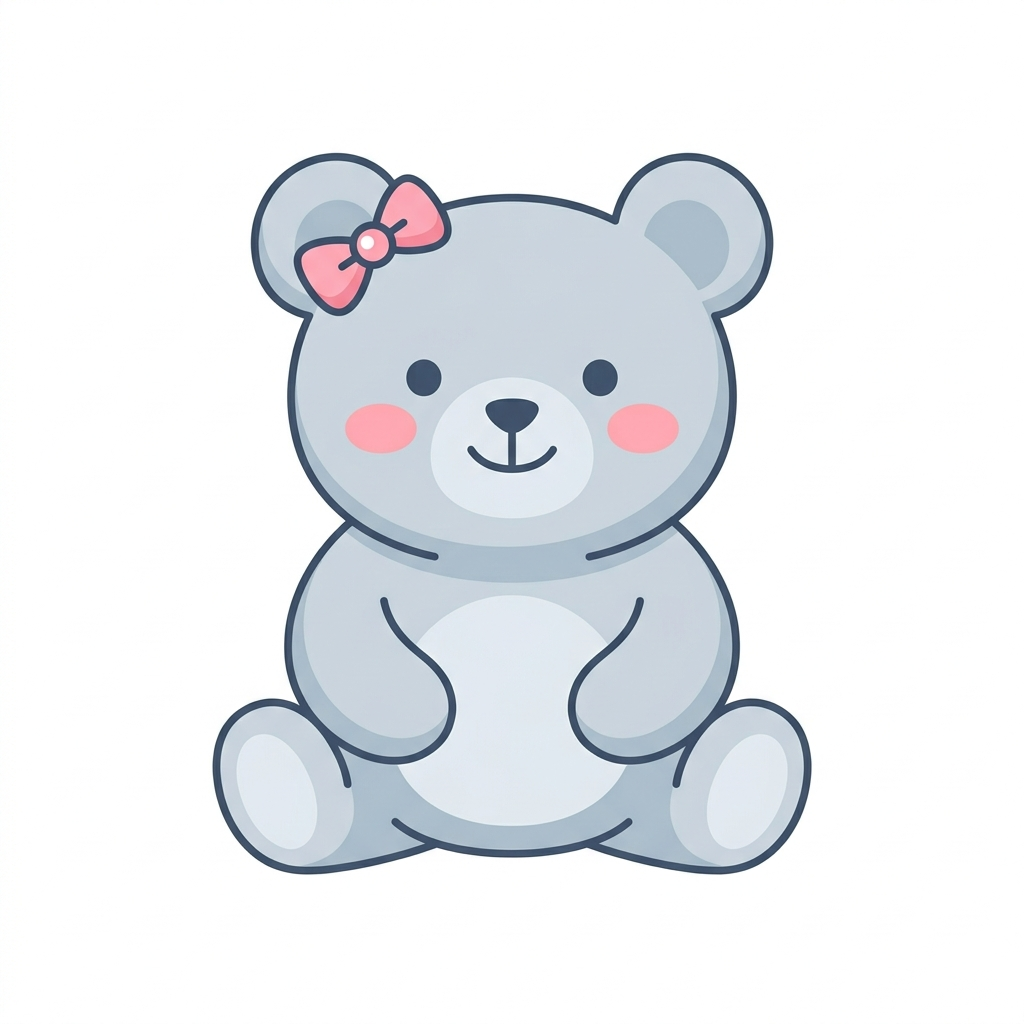
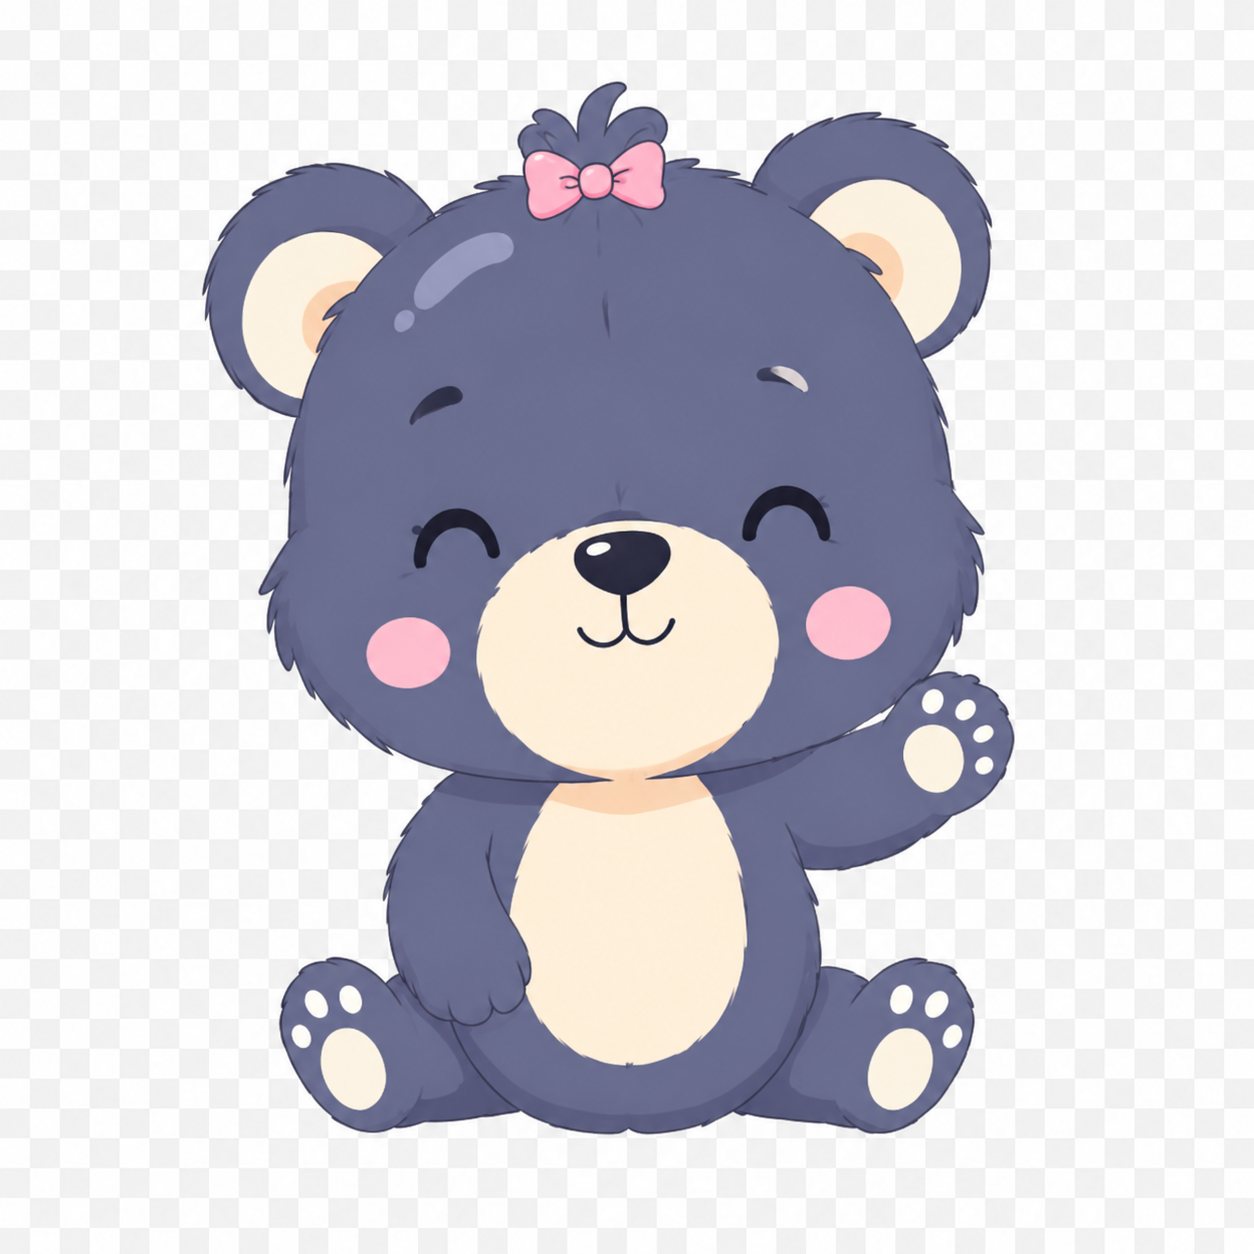
Update mobile layout to exactly match reference image

diff --git a/birthday.js b/birthday.js
@@ -1,77 +1,65 @@
 /* birthday.js */
 document.addEventListener('DOMContentLoaded', () => {
-  // Sequence:
-  // 1. Background already visible
-  // 2. Garlands drop (CSS animation starts automatically at 0.5s delay)
-  // 3. Text appears word by word/letter by letter
-  // 4. Cap falls
-  // 5. Teddy bear + balloons + name plate appear
-  // 6. Next button appears
-
-  const happySpans = document.querySelectorAll('.happy-text span');
-  const birthdaySpans = document.querySelectorAll('.birthday-text span');
+  const letters = document.querySelectorAll('.happy-text span, .birthday-text span');
   const datePill = document.querySelector('.date-pill');
+  const balloons = document.querySelectorAll('.balloon');
   const cap = document.querySelector('.birthday-cap');
   const frame = document.querySelector('.frame');
   const namePlate = document.querySelector('.name-plate');
   const nextBtn = document.querySelector('.btn-next');
 
-  // Initial delay waits for the garlands to finish dropping (1.5s total)
-  let delay = 1500; 
+  // Animation Timeline
+  // 1. Background is visible
+  // 2. Garlands drop immediately via CSS animation with 0.5s delay
+  
+  let delay = 1500; // Wait for garlands
 
-  // 3. Animate Text (letter by letter)
-  const animateText = (spans, startTime) => {
-    spans.forEach((span, i) => {
-      setTimeout(() => {
-        span.style.transition = 'opacity 0.4s, transform 0.4s cubic-bezier(0.175, 0.885, 0.32, 1.275)';
-        span.style.opacity = '1';
-        span.style.transform = 'translateY(0) scale(1)';
-      }, startTime + (i * 100));
-    });
-    return startTime + (spans.length * 100);
-  };
+  // 3. Text appears letter by letter
+  letters.forEach((letter, i) => {
+    setTimeout(() => {
+      letter.style.opacity = '1';
+      letter.style.transform = 'translateY(0) scale(1)';
+      letter.style.transition = 'all 0.4s cubic-bezier(0.175, 0.885, 0.32, 1.275)';
+    }, delay + (i * 100));
+  });
+  
+  delay += letters.length * 100 + 400;
 
-  delay = animateText(happySpans, delay);
-  delay += 200; // gap between words
-  delay = animateText(birthdaySpans, delay);
-
-  // Date pill appears alongside the text completion
-  setTimeout(() => {
-    datePill.style.transition = 'opacity 0.5s, transform 0.5s cubic-bezier(0.175, 0.885, 0.32, 1.275)';
-    datePill.style.opacity = '1';
-    datePill.style.transform = 'translateY(0)';
-  }, delay);
-
-  // 4. Birthday cap falls
-  delay += 400;
+  // 4. Cap falls
   setTimeout(() => {
     cap.style.animation = 'dropCap 0.8s forwards cubic-bezier(0.5, 0, 0.3, 1.5)';
   }, delay);
 
-  // 5. Bear and frame appears (pop in)
-  delay += 600;
+  delay += 800;
+
+  // 5. Bear and frame appears
   setTimeout(() => {
     frame.style.animation = 'popIn 0.8s forwards cubic-bezier(0.175, 0.885, 0.32, 1.275)';
-    
-    // Show balloons smoothly upwards
-    const balloons = document.querySelectorAll('.balloon');
-    balloons.forEach(b => b.classList.add('show'));
-    
-    // Name plate pops in shortly after the bear frame
-    setTimeout(() => {
-      namePlate.style.transition = 'opacity 0.5s, transform 0.5s cubic-bezier(0.175, 0.885, 0.32, 1.275)';
-      namePlate.style.opacity = '1';
-      namePlate.style.transform = 'translateY(0)';
-    }, 400);
   }, delay);
 
-  // 6. Next button
-  delay += 1200;
+  // 6. Balloons rise up together with the bear
+  setTimeout(() => {
+    balloons.forEach(b => b.classList.add('show'));
+  }, delay + 200);
+
+  delay += 1000;
+
+  // 7. Date, name plate, Next button appear smoothly
+  setTimeout(() => {
+    datePill.style.transition = 'all 0.5s cubic-bezier(0.175, 0.885, 0.32, 1.275)';
+    datePill.style.opacity = '1';
+    datePill.style.transform = 'translateY(0)';
+    
+    namePlate.style.transition = 'all 0.5s cubic-bezier(0.175, 0.885, 0.32, 1.275)';
+    namePlate.style.opacity = '1';
+    namePlate.style.transform = 'translateY(0)';
+  }, delay);
+
   setTimeout(() => {
     nextBtn.classList.add('visible');
-  }, delay);
+  }, delay + 500);
 
-  // Next button click (Placeholder until next instruction)
+  // Next button click
   nextBtn.addEventListener('click', () => {
     console.log("Next clicked! Ready for the next instruction.");
   });

diff --git a/birthday.css b/birthday.css
@@ -64,11 +64,12 @@ body, html {
 @media (orientation: portrait), (max-width: 768px) {
   #stage {
     flex-direction: column;
-    justify-content: flex-start;
+    justify-content: center;
+    align-items: center;
     height: 100vh;
     max-height: none;
     max-width: 100vw;
-    padding: 12vh 0 10vh 0;
+    padding: 8vh 0 8vh 0;
   }
 
   .left-section, .right-section {
@@ -77,58 +78,106 @@ body, html {
 
   .text-container {
     order: 1;
-    margin-bottom: 5vh;
-  }
-
-  .frame {
-    order: 2;
-    width: clamp(160px, 45vw, 280px);
-    margin-bottom: 4vh;
+    margin-bottom: 2vh;
+    margin-top: 4vh;
   }
 
   .date-pill {
+    order: 2;
+    margin-bottom: 3vh;
+  }
+
+  .frame {
     order: 3;
-    margin-bottom: 2vh;
+    width: clamp(220px, 60vw, 320px);
+    margin-bottom: 3vh;
   }
 
   .name-plate {
     order: 4;
+    margin-bottom: 3vh;
     margin-top: 0;
+  }
+
+  /* Next Button for Mobile */
+  .btn-next {
+    position: relative;
+    order: 5;
+    bottom: auto;
+    left: auto;
+    transform: translateY(20px);
+    width: clamp(160px, 50vw, 250px);
+    background: #3e3355;
+    color: #fff;
+    border-radius: 40px;
+    box-shadow: 0 4px 0 #333;
+    /* Simulated dashed inner border */
+    outline: 2px dashed #ffa7c4;
+    outline-offset: -8px;
+  }
+  .btn-next.visible {
+    animation: slideUpBtnMobile 0.5s forwards cubic-bezier(0.175, 0.885, 0.32, 1.275);
+  }
+  .btn-next:hover {
+    background: #51446b;
+    color: #fff;
   }
 
   .garland {
     width: 45%;
   }
 
+  /* 3 Balloons positioning */
   .balloon-1 {
-    top: 38vh;
-    left: 8vw;
+    top: 40vh;
+    left: 4vw;
     width: clamp(70px, 20vw, 120px);
   }
 
   .balloon-2 {
-    top: 44vh;
-    right: 8vw;
-    width: clamp(70px, 20vw, 120px);
+    top: 36vh;
+    right: 4vw;
+    width: clamp(70px, 18vw, 110px);
+  }
+  
+  .balloon-3 {
+    top: 52vh;
+    right: 6vw;
+    width: clamp(60px, 16vw, 100px);
+  }
+  .balloon-3.show {
+    animation: floatBalloon 4.5s infinite ease-in-out 1.2s;
   }
 
+  /* Fonts */
   .happy-text {
     font-size: clamp(2.5rem, 12vw, 4rem);
   }
-
   .birthday-text {
     font-size: clamp(3rem, 14vw, 5rem);
   }
 
   .birthday-cap {
     width: clamp(60px, 18vw, 90px);
-    top: -25%;
+    top: -20%;
     right: 0%;
   }
 
-  .btn-next {
-    bottom: 4vh;
+  /* Bear accessories */
+  .smiley-face {
+    width: clamp(50px, 18vw, 80px);
+    bottom: -2%;
+    left: -8%;
   }
+  .heart-bubble {
+    width: clamp(60px, 20vw, 90px);
+    top: 25%;
+    right: -12%;
+  }
+}
+
+@keyframes slideUpBtnMobile {
+  to { opacity: 1; transform: translateY(0); }
 }
 
 /* --- BIRTHDAY SCENE --- */

diff --git a/birthday.html b/birthday.html
@@ -104,6 +104,14 @@
             <path d="M35 30 C 40 20, 55 25, 55 25" fill="none" stroke="#fff" stroke-width="4" stroke-linecap="round"/>
           </svg>
         </div>
+        <div class="balloon balloon-3">
+          <svg viewBox="0 0 100 150">
+            <path d="M50 10 C 15 10, 15 60, 50 85 C 85 60, 85 10, 50 10" fill="#ffa7c4" stroke="#333" stroke-width="3"/>
+            <path d="M45 85 L 55 85 L 50 93 Z" fill="#ffa7c4" stroke="#333" stroke-width="3"/>
+            <path d="M50 93 Q 40 120, 60 150" fill="none" stroke="#333" stroke-width="2"/>
+            <path d="M35 30 C 40 20, 55 25, 55 25" fill="none" stroke="#fff" stroke-width="4" stroke-linecap="round"/>
+          </svg>
+        </div>
 
         <div class="frame">
           <div class="bear-container">